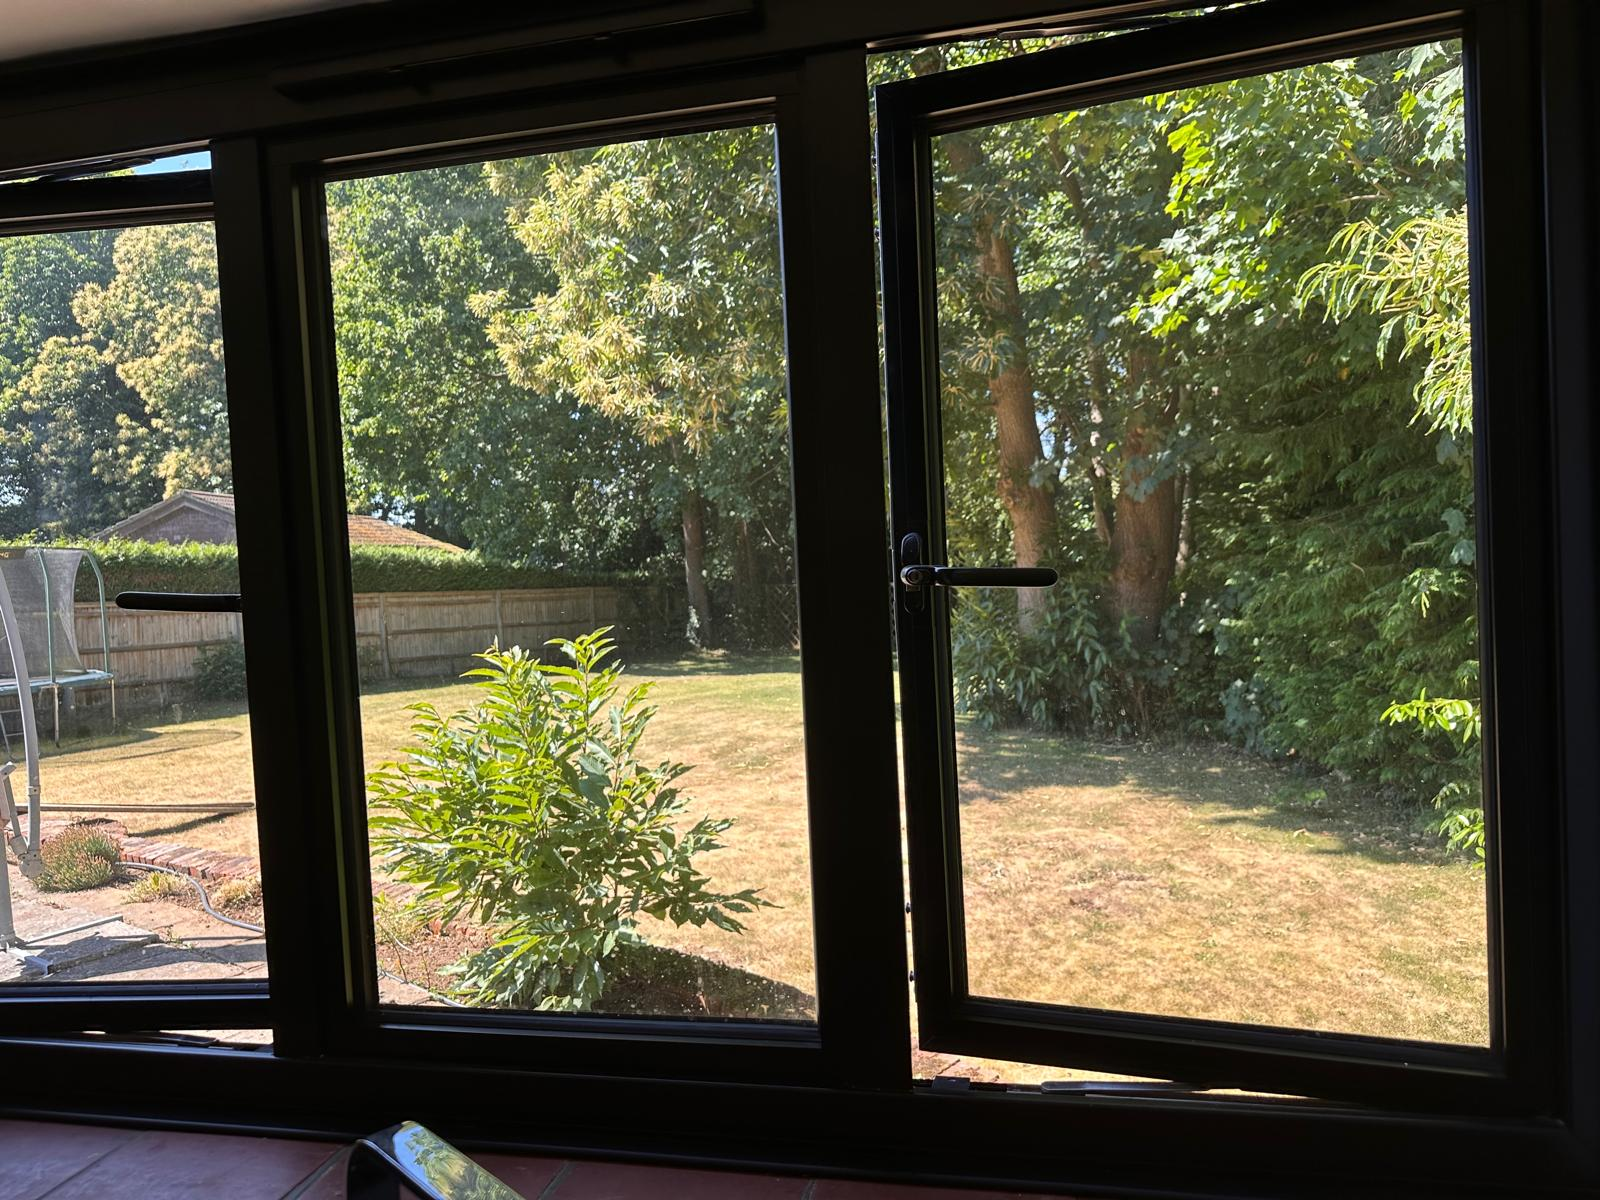
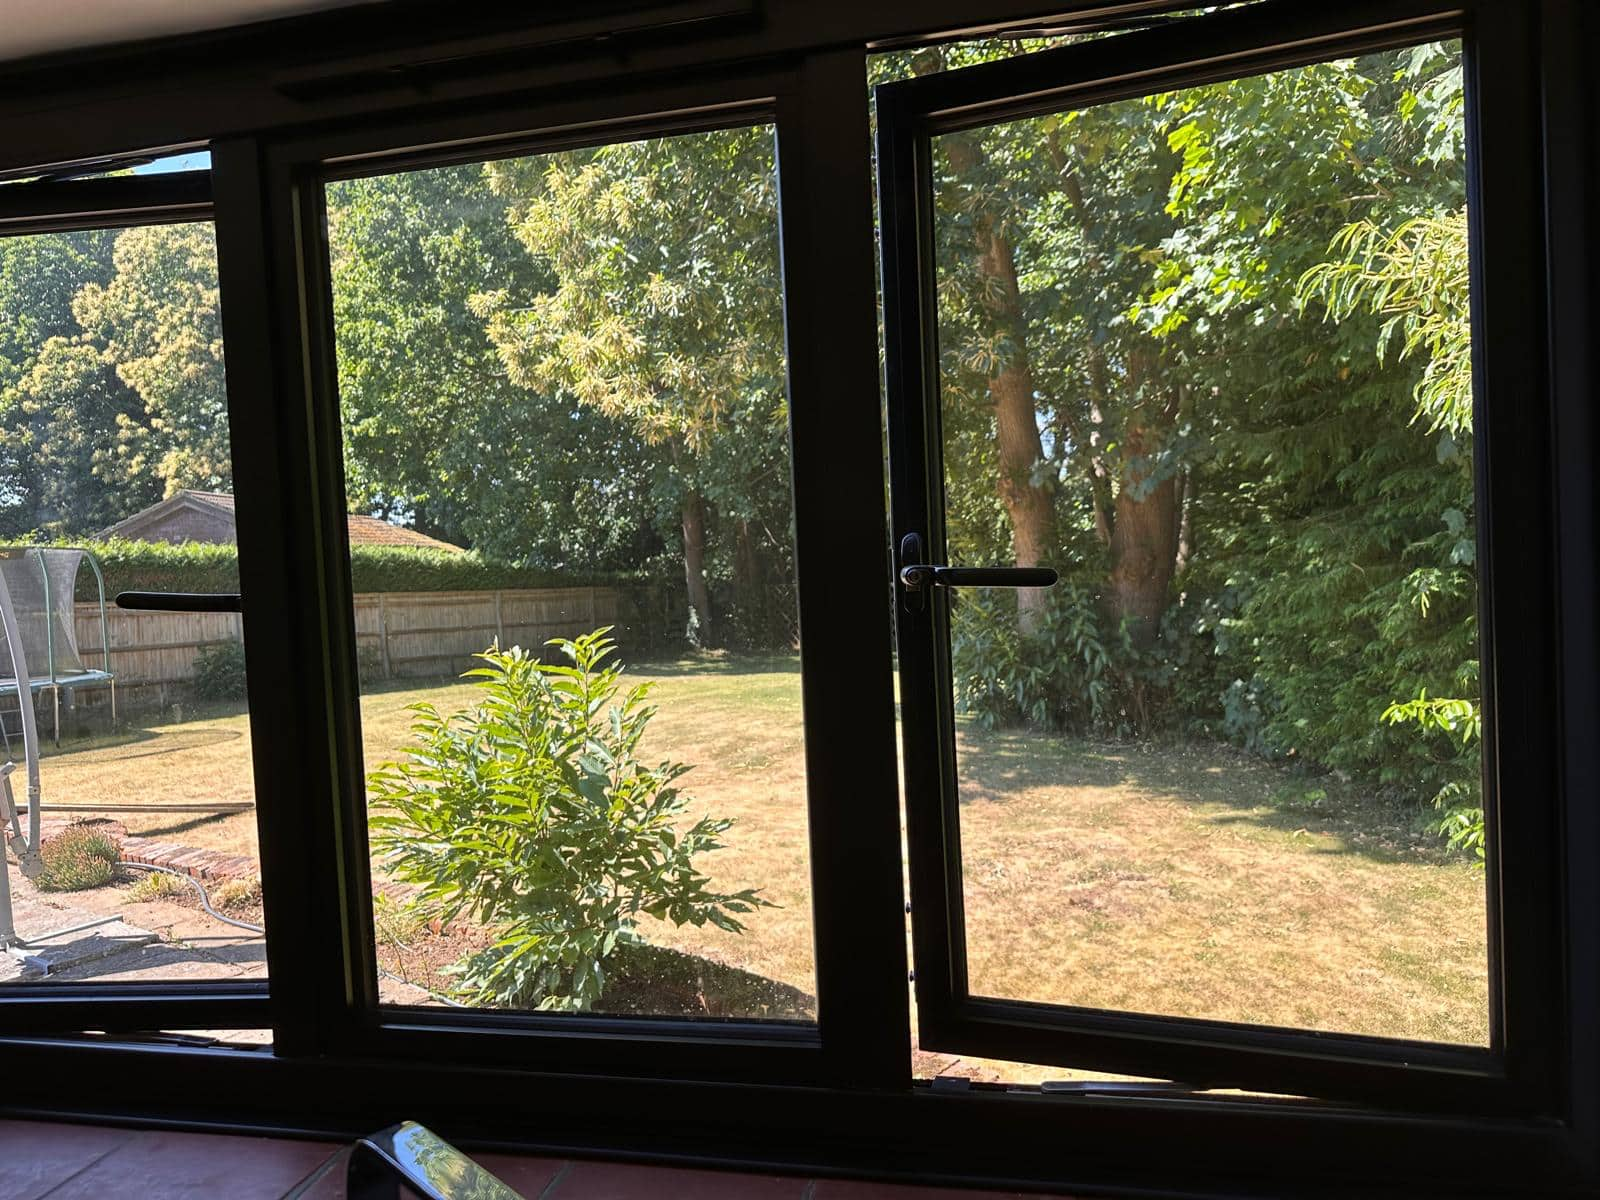
update layout

diff --git a/index.html b/index.html
@@ -19,9 +19,9 @@
                 <ul class="nav-menu">
                     <li><a href="#home" class="nav-link">Home</a></li>
                     <li><a href="#booking-info" class="nav-link">Booking</a></li>
-                    <li><a href="#gallery" class="nav-link">Gallery</a></li>
                     <li><a href="#features-amenities" class="nav-link">Features & Amenities</a></li>
                     <li><a href="#accommodation" class="nav-link">Details</a></li>
+                    <li><a href="#gallery" class="nav-link">Gallery</a></li>
                     <li><a href="#location" class="nav-link">Location</a></li>
                     <li><a href="#contact" class="nav-link">Contact</a></li>
                 </ul>
@@ -48,20 +48,6 @@
                 <div class="hero-description">
                     <p>Recently refurbished, bright & modern accommodation in self contained loft with views to countryside. One mile from Godalming town centre's riverside location with great amenities including mainline train station, supermarkets, bars & restaurants.</p>
                     <p>The Loft is a self contained bedroom/living room on the first floor of our double garage, with own kitchen and bathroom on the ground floor. Accessed by its own front door. Suitable for 2 guests.</p>
-                </div>
-                <div class="hero-highlights">
-                    <div class="highlight">
-                        <span class="highlight-number">2</span>
-                        <span class="highlight-text">Guests</span>
-                    </div>
-                    <div class="highlight">
-                        <span class="highlight-number">1</span>
-                        <span class="highlight-text">Mile from Town</span>
-                    </div>
-                    <div class="highlight">
-                        <span class="highlight-icon"><i class="fas fa-fire"></i></span>
-                        <span class="highlight-text">Woodburner</span>
-                    </div>
                 </div>
             </div>
         </section>
@@ -109,51 +95,6 @@
                             <p>Please phone Louise on <a href="tel:+447786074606">07786074606</a> to enquire about booking.</p>
                             <p>Alternatively email on <a href="mailto:louisejainwoods@yahoo.co.uk">louisejainwoods@yahoo.co.uk</a></p>
                         </div>
-                    </div>
-                </div>
-            </div>
-        </section>
-
-        <section id="gallery" class="gallery">
-            <div class="container">
-                <h2 class="section-title">Photo Gallery</h2>
-                <p class="gallery-subtitle">Take a virtual tour of The Loft Godalming</p>
-                <div class="gallery-grid">
-                    <div class="gallery-item">
-                        <img src="assets/images/living-room-woodburner.jpg" alt="Cozy living room with traditional woodburner and comfortable seating" loading="lazy">
-                        <div class="gallery-caption">Living Room with Woodburner</div>
-                    </div>
-                    <div class="gallery-item">
-                        <img src="assets/images/bedroom-bed.jpg" alt="Comfortable bedroom with modern furnishings" loading="lazy">
-                        <div class="gallery-caption">Comfortable Bedroom</div>
-                    </div>
-                    <div class="gallery-item">
-                        <img src="assets/images/bathroom-vanity.jpg" alt="Modern bathroom with stylish vanity and mirror" loading="lazy">
-                        <div class="gallery-caption">Modern Bathroom</div>
-                    </div>
-                    <div class="gallery-item">
-                        <img src="assets/images/kitchen-area.jpg" alt="Well-equipped kitchen area with modern appliances" loading="lazy">
-                        <div class="gallery-caption">Kitchen Area</div>
-                    </div>
-                    <div class="gallery-item">
-                        <img src="assets/images/bathroom-shower.jpg" alt="Stylish shower room with contemporary design" loading="lazy">
-                        <div class="gallery-caption">Shower Room</div>
-                    </div>
-                    <div class="gallery-item">
-                        <img src="assets/images/countryside-view.jpg" alt="Beautiful countryside views from the loft" loading="lazy">
-                        <div class="gallery-caption">Countryside Views</div>
-                    </div>
-                    <div class="gallery-item">
-                        <img src="assets/images/living-room.jpg" alt="Spacious living area showing the open plan design" loading="lazy">
-                        <div class="gallery-caption">Spacious Living Area</div>
-                    </div>
-                    <div class="gallery-item">
-                        <img src="assets/images/property-exterior.jpg" alt="Exterior view of The Loft Godalming property" loading="lazy">
-                        <div class="gallery-caption">Property Exterior</div>
-                    </div>
-                    <div class="gallery-item">
-                        <img src="assets/images/accommodation-space.jpg" alt="Bright interior spaces with natural light" loading="lazy">
-                        <div class="gallery-caption">Bright Interior</div>
                     </div>
                 </div>
             </div>
@@ -315,6 +256,51 @@
             </div>
         </section>
 
+      <section id="gallery" class="gallery">
+        <div class="container">
+          <h2 class="section-title">Photo Gallery</h2>
+          <p class="gallery-subtitle">Take a virtual tour of The Loft Godalming</p>
+          <div class="gallery-grid">
+            <div class="gallery-item">
+              <img src="assets/images/living-room-woodburner.jpg" alt="Cozy living room with traditional woodburner and comfortable seating" loading="lazy">
+              <div class="gallery-caption">Living Room with Woodburner</div>
+            </div>
+            <div class="gallery-item">
+              <img src="assets/images/bedroom-bed.jpg" alt="Comfortable bedroom with modern furnishings" loading="lazy">
+              <div class="gallery-caption">Comfortable Bedroom</div>
+            </div>
+            <div class="gallery-item">
+              <img src="assets/images/bathroom-vanity.jpg" alt="Modern bathroom with stylish vanity and mirror" loading="lazy">
+              <div class="gallery-caption">Modern Bathroom</div>
+            </div>
+            <div class="gallery-item">
+              <img src="assets/images/kitchen-area.jpg" alt="Well-equipped kitchen area with modern appliances" loading="lazy">
+              <div class="gallery-caption">Kitchen Area</div>
+            </div>
+            <div class="gallery-item">
+              <img src="assets/images/bathroom-shower.jpg" alt="Stylish shower room with contemporary design" loading="lazy">
+              <div class="gallery-caption">Shower Room</div>
+            </div>
+            <div class="gallery-item">
+              <img src="assets/images/countryside-view.jpg" alt="Beautiful countryside views from the loft" loading="lazy">
+              <div class="gallery-caption">Countryside Views</div>
+            </div>
+            <div class="gallery-item">
+              <img src="assets/images/living-room.jpg" alt="Spacious living area showing the open plan design" loading="lazy">
+              <div class="gallery-caption">Spacious Living Area</div>
+            </div>
+            <div class="gallery-item">
+              <img src="assets/images/property-exterior.jpg" alt="Exterior view of The Loft Godalming property" loading="lazy">
+              <div class="gallery-caption">Property Exterior</div>
+            </div>
+            <div class="gallery-item">
+              <img src="assets/images/accommodation-space.jpg" alt="Bright interior spaces with natural light" loading="lazy">
+              <div class="gallery-caption">Bright Interior</div>
+            </div>
+          </div>
+        </div>
+      </section>
+
         <section id="location" class="location">
             <div class="container">
                 <h2 class="section-title">Prime Godalming Location</h2>
@@ -403,8 +389,8 @@
                 <div class="footer-links">
                     <a href="#home">Home</a>
                     <a href="#booking-info">Booking</a>
-                    <a href="#gallery">Gallery</a>
                     <a href="#features-amenities">Features & Amenities</a>
+                    <a href="#gallery">Gallery</a>
                     <a href="#contact">Contact</a>
                 </div>
             </div>
